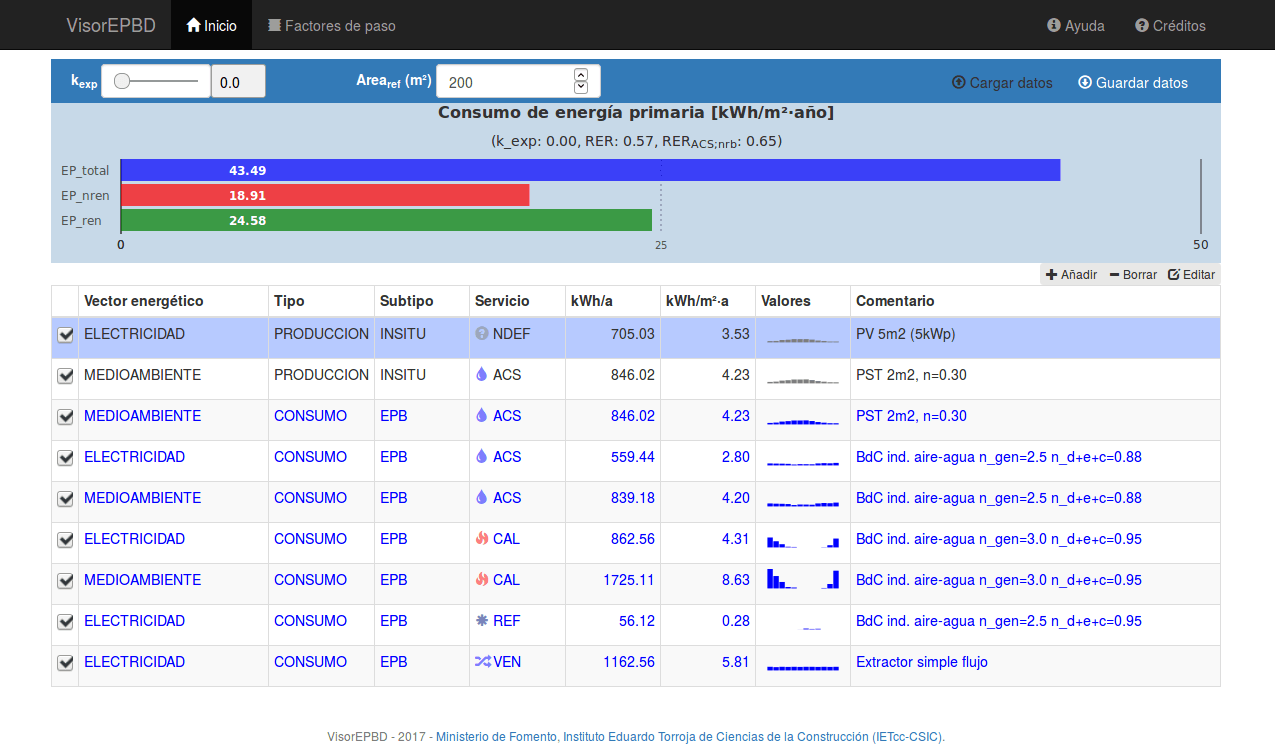
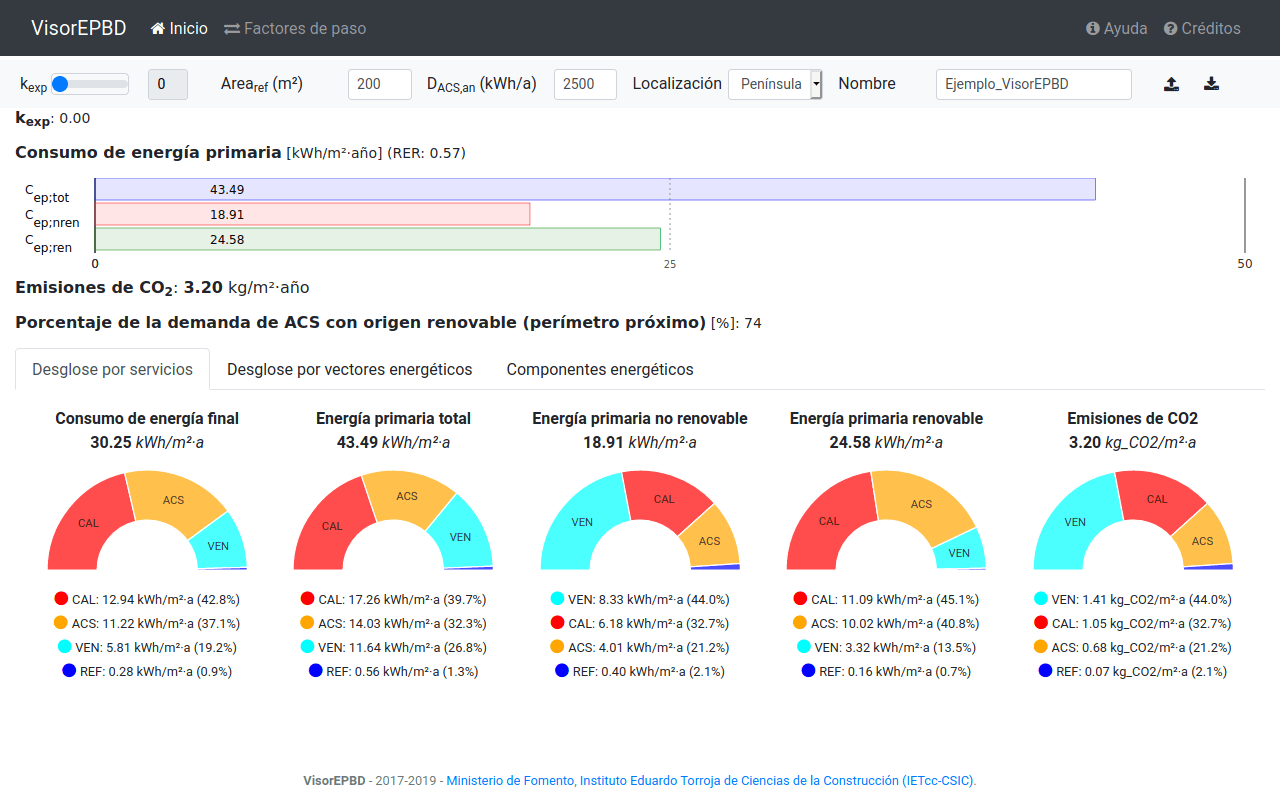
Actualizar ayuda

diff --git a/app/components/HelpPage.jsx b/app/components/HelpPage.jsx
@@ -5,10 +5,11 @@ import Footer from "components/Footer";
 import esquema_0pasos from "img/esquema_0pasos.svg";
 import esquema_1balance from "img/esquema_1balance.svg";
 import esquema_2ponderacion from "img/esquema_2ponderacion.svg";
-import esquema_3resultados from "img/esquema_3resultados.png";
 import interfaz_general from "img/interfaz/general.png";
 import interfaz_parametrosgenerales from "img/interfaz/parametrosgenerales.png";
-import interfaz_lineasvalores from "img/interfaz/lineasvalores.png";
+import interfaz_pestanhavectores from "img/interfaz/pestanhavectores.png";
+import interfaz_pestanhaservicios from "img/interfaz/pestanhaservicios.png";
+import interfaz_pestanhacomponentes from "img/interfaz/pestanhacomponentes.png";
 import interfaz_editor from "img/interfaz/editor.png";
 import interfaz_entradavalorexpresion from "img/interfaz/entradavalorexpresion.png";
 import interfaz_comentario from "img/interfaz/comentario.png";
@@ -201,11 +202,38 @@ const HelpPage = (props) => (
           />
           <p>
             Esta pestaña permite definir y modificar los parámetros generales de
-            cálculo, el <b>factor de exportación</b> (
-            <b>
-              k<sub>exp</sub>
-            </b>
-            ) y el <b>área de referencia</b>.
+            cálculo:
+            <ul>
+              <li>
+                el <b>factor de exportación</b> (
+                <i>
+                  k<sub>exp</sub>
+                </i>
+                ) , adimensional y con valores entre 0.0 y 1.0;
+              </li>
+              <li>
+                el <b>área de referencia</b> (
+                <i>
+                  Area<sub>ref</sub>
+                </i>
+                ) , en m²;
+              </li>
+              <li>
+                la <b>demanda anual de ACS</b> (
+                <i>
+                  D<sub>ACS,an</sub>
+                </i>
+                ), en kWh/a;
+              </li>
+              <li>
+                la <b>localización</b>, a efectos de determinar los factores de
+                paso reglamentarios;
+              </li>
+              <li>
+                el <b>nombre del proyecto</b>, que se usará como nombre del
+                archivo de datos, en caso de guardar la información en disco.
+              </li>
+            </ul>
           </p>
           <p>
             El botón &quot;
@@ -230,62 +258,114 @@ const HelpPage = (props) => (
             src={interfaz_indicadores}
           />
           <p>
-            El diagrama muestra barras y valores del{" "}
-            <b>
-              consumo de energía primaria total (
-              <i>
-                C<sub>ep,tot</sub>
-              </i>
-              )
-            </b>
-            , el{" "}
-            <b>
-              consumo de energía primaria no renovable (
-              <i>
-                C<sub>ep,nren</sub>
-              </i>
-              )
-            </b>{" "}
-            y el{" "}
-            <b>
-              consumo de energía primaria renovable (
-              <i>
-                C<sub>ep,ren</sub>
-              </i>
-              )
-            </b>
-            .
+            El diagrama muestra los valores y resultados de:
+            <ul>
+              <li>
+                el{" "}
+                <b>
+                  factor de exportación{" "}
+                  <i>
+                    k<sub>exp</sub>
+                  </i>{" "}
+                  usado;
+                </b>
+              </li>
+              <li>
+                el <b>consumo de energía primaria</b>, incluyendo:
+                <ul>
+                  <li>
+                    la <b>fracción de energía primaria de origen renovable</b>{" "}
+                    (RER);
+                  </li>
+                  <li>
+                    el{" "}
+                    <b>
+                      consumo de energía primaria total (
+                      <i>
+                        C<sub>ep,tot</sub>
+                      </i>
+                      )
+                    </b>
+                    ;
+                  </li>
+                  <li>
+                    el{" "}
+                    <b>
+                      consumo de energía primaria no renovable (
+                      <i>
+                        C<sub>ep,nren</sub>
+                      </i>
+                      )
+                    </b>{" "}
+                    ;
+                  </li>
+                  <li>
+                    el{" "}
+                    <b>
+                      consumo de energía primaria renovable (
+                      <i>
+                        C<sub>ep,ren</sub>
+                      </i>
+                      )
+                    </b>
+                    ;
+                  </li>
+                </ul>
+              </li>
+              <li>
+                las{" "}
+                <b>
+                  emisiones de CO<sub>2</sub>
+                </b>
+                ;
+              </li>
+              <li>
+                el{" "}
+                <b>
+                  porcentaje de la demanda de ACS procedente de fuentes
+                  renovables
+                </b>
+                , calculada para el perímetro próximo .
+              </li>
+            </ul>
           </p>
 
-          <p>
-            El subtítulo del diagrama indica el factor de exportación utilizado
-            en el cálculo (
-            <i>
-              k<sub>exp</sub>
-            </i>
-            ), la{" "}
-            <b>
-              fracción de energía energía primaria de origen renovable (
-              <i>RER</i>)
-            </b>{" "}
-            y la{" "}
-            <b>
-              fracción de energía primaria de origen renovable para el servicio
-              de ACS obtenido con factores de paso para el perímetro próximo (
-              <i>
-                RER<sub>ACS;nrb</sub>
-              </i>
-              )
-            </b>
-            .
-          </p>
-
-          <h4>Componentes energéticos</h4>
+          <h4>Pestaña de desglose por servicios</h4>
 
           <img
             className="img-fluid offset-md-2"
             width="60%"
-            src={interfaz_lineasvalores}
+            src={interfaz_pestanhaservicios}
+          />
+          <p>
+            Esta pestaña de resultados incluye una representación gráfica,
+            desagregada por servicios, del consumo de energía final, la energía
+            primaria total, la energía primaria de origen renovable y las
+            emisiones de CO2.
+          </p>
+
+          <h4>Pestaña de desglose por vectores energéticos</h4>
+
+          <img
+            className="img-fluid offset-md-2"
+            width="60%"
+            src={interfaz_pestanhavectores}
+          />
+          <p>
+            Esta pestaña de resultados incluye, para cada vector energético
+            disponible, una representación gráfica de la energía final consumida
+            por servicios, la energía final suministrada por origen, la energía
+            final exportada por destino, la energía primaria total por
+            servicios, la energía primaria de origen renovable por servicios y
+            las emisiones de CO2 por servicios.
+          </p>
+
+          <h4>Pestaña de componentes energéticos</h4>
+
+          <img
+            className="img-fluid offset-md-2"
+            width="60%"
+            src={interfaz_pestanhacomponentes}
           />
           <p>
             Esta parte de la interfaz incluye una tabla con información sobre
@@ -800,7 +880,7 @@ const HelpPage = (props) => (
 
           <img
             className="img-fluid offset-md-2 col-lg-8"
-            src={esquema_3resultados}
+            src={interfaz_pestanhacomponentes}
           />
         </div>
       </div>
